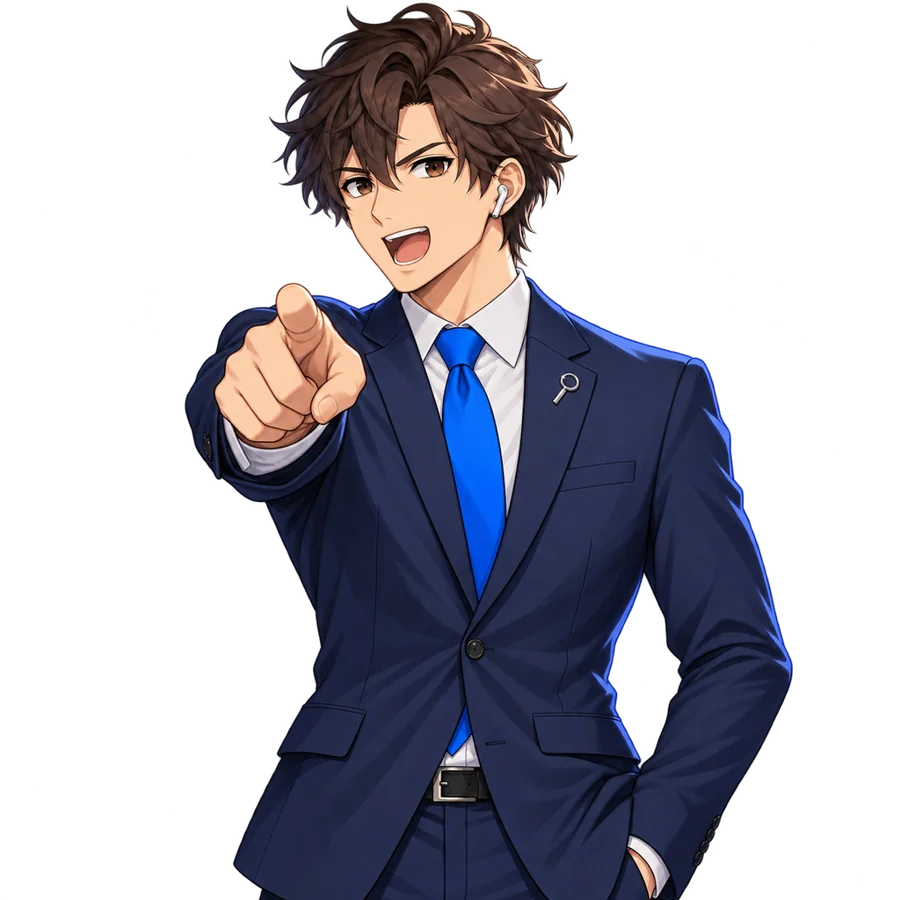
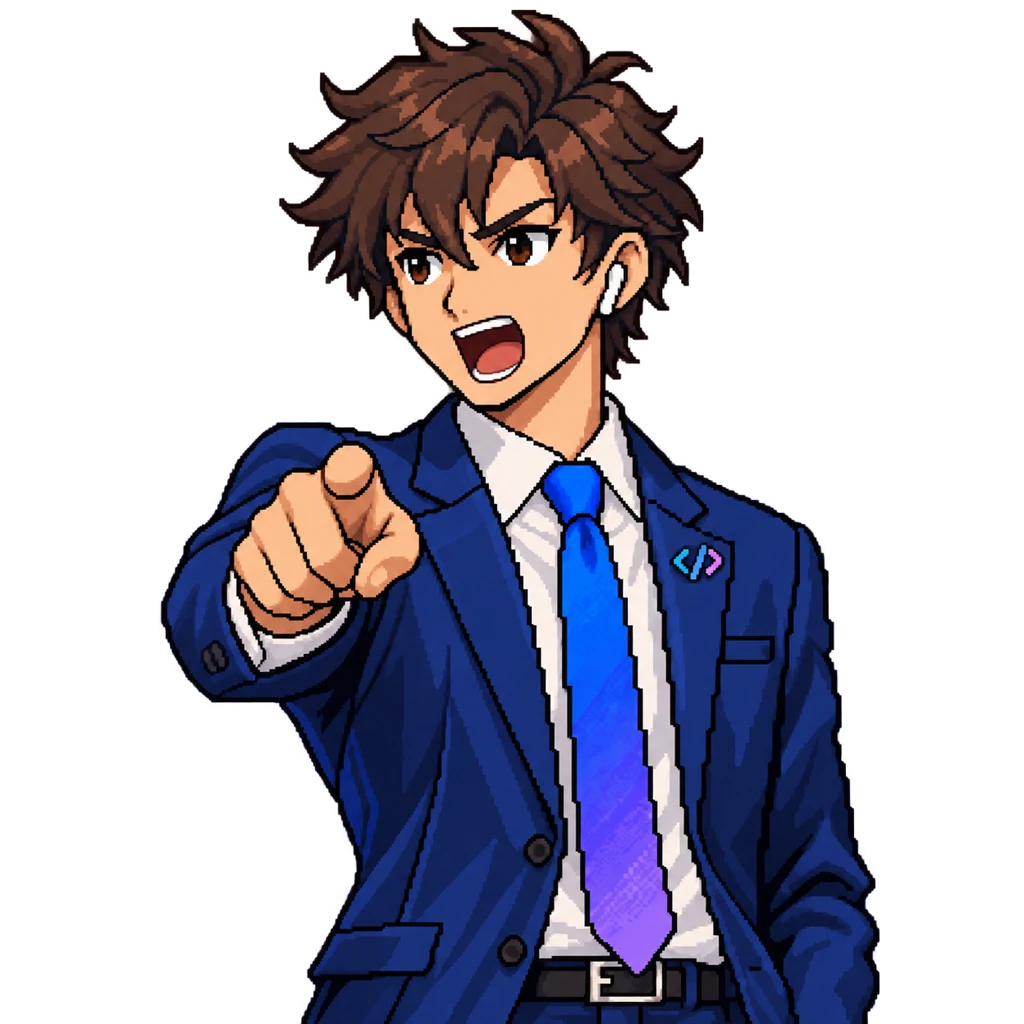
feat(web): switch to 16-bit pixel art characters and courtroom

diff --git a/ASSETS.md b/ASSETS.md
@@ -2,7 +2,7 @@
 
 | Asset | Source | License |
 |---|---|---|
-| Characters in `apps/web/src/assets/characters/` (Bob, the Prosecutor, the Judge) | Original characters, generated with OpenAI image generation through Codex CLI on 26 September 2026 | Created for this project |
+| Characters in `apps/web/src/assets/characters/` (Bob, the Prosecutor, the Judge) | Original 16-bit pixel art characters, generated with OpenAI image generation through Codex CLI on 26 September 2026. Bob wears the IBM Bob brand colors as a nod to the product. | Created for this project |
 | Backgrounds in `apps/web/src/assets/backgrounds/` | Generated with OpenAI image generation through Codex CLI on 26 September 2026 | Created for this project |
 | Drawn courtroom fallback and "OBJECTION!" bubble | SVG drawn in code | Part of this project |
 | Cinzel, M PLUS Rounded 1c, Bangers | Fontsource packages | SIL Open Font License 1.1 |
